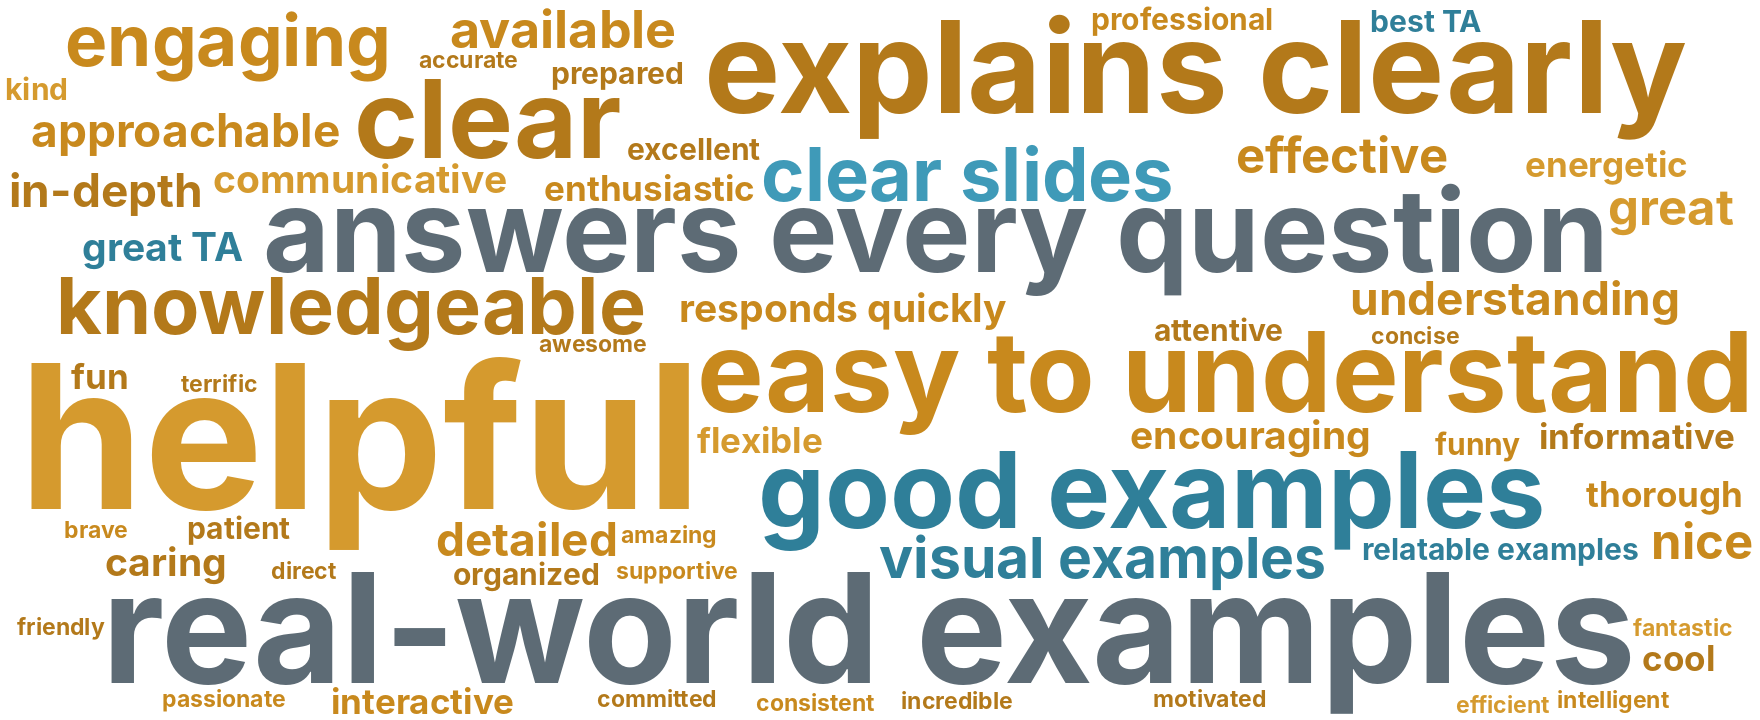
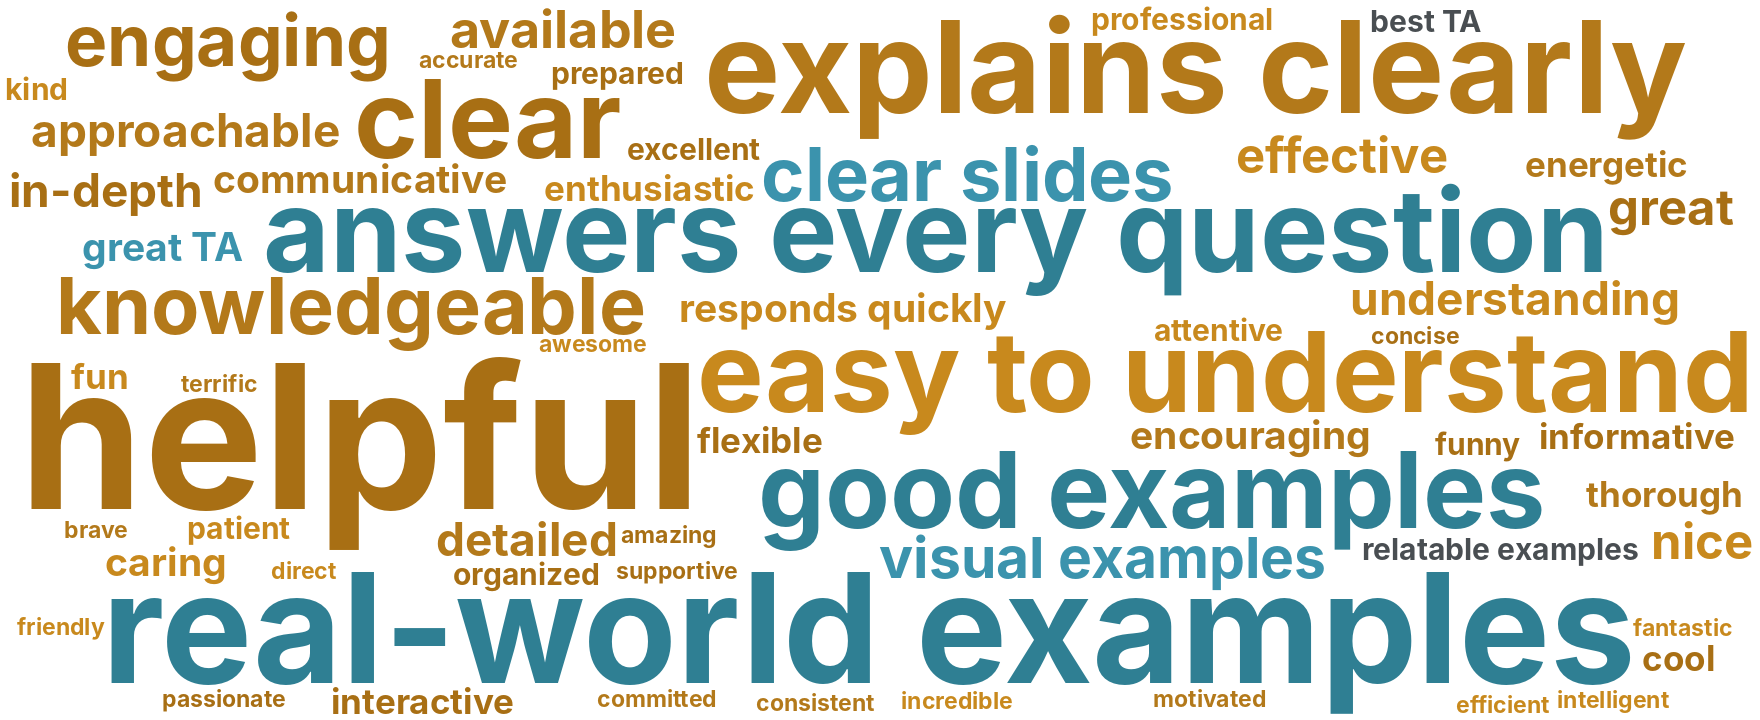
Word cloud and comment cards: colours matched to the site's light and dark themes

diff --git a/_sass/layout/_custom.scss b/_sass/layout/_custom.scss
@@ -165,3 +165,41 @@
   color: var(--global-text-color);
   opacity: 0.7;
 }
+
+/* Dark theme: the word cloud swaps to its light-on-dark version, and the comment cards
+   get dark surfaces so their text stays readable. */
+.comment-cloud .cloud-dark {
+  display: none;
+}
+
+html[data-theme="dark"] {
+  .comment-cloud .cloud-light {
+    display: none;
+  }
+
+  .comment-cloud .cloud-dark {
+    display: inline;
+  }
+
+  .quote-card {
+    background: rgba(255, 255, 255, 0.07);
+    border-color: rgba(255, 255, 255, 0.16);
+    box-shadow: none;
+  }
+
+  .quote-card blockquote::before,
+  .quote-card .quote-stars {
+    color: #6fd0ea;
+    opacity: 0.8;
+  }
+
+  .quote-card--lecture {
+    background: rgba(230, 176, 79, 0.14);
+  }
+
+  .quote-card--lecture blockquote::before,
+  .quote-card--lecture .quote-stars {
+    color: #e6b04f;
+    opacity: 0.9;
+  }
+}

diff --git a/_pages/teaching.md b/_pages/teaching.md
@@ -27,7 +27,8 @@ In a large course, fairness has to be designed in. When I took over a 530-studen
 ## Student Comments
 
 <figure class="comment-cloud">
-<img src="/images/student-comment-cloud.png" alt="Word cloud of how students described the teaching. The largest entries are helpful, real-world examples, explains clearly, answers every question, easy to understand, clear, good examples and knowledgeable.">
+<img class="cloud-light" src="/images/student-comment-cloud.png" alt="Word cloud of how students described the teaching. The largest entries are helpful, real-world examples, explains clearly, answers every question, easy to understand, clear, good examples and knowledgeable.">
+<img class="cloud-dark" src="/images/student-comment-cloud-dark.png" alt="Word cloud of how students described the teaching. The largest entries are helpful, real-world examples, explains clearly, answers every question, easy to understand, clear, good examples and knowledgeable.">
 <figcaption>How students described my teaching, from all 248 positive comments across my courses. Gold: words for the instructor. Blue: what the teaching offered. Larger means more comments.</figcaption>
 </figure>
 
